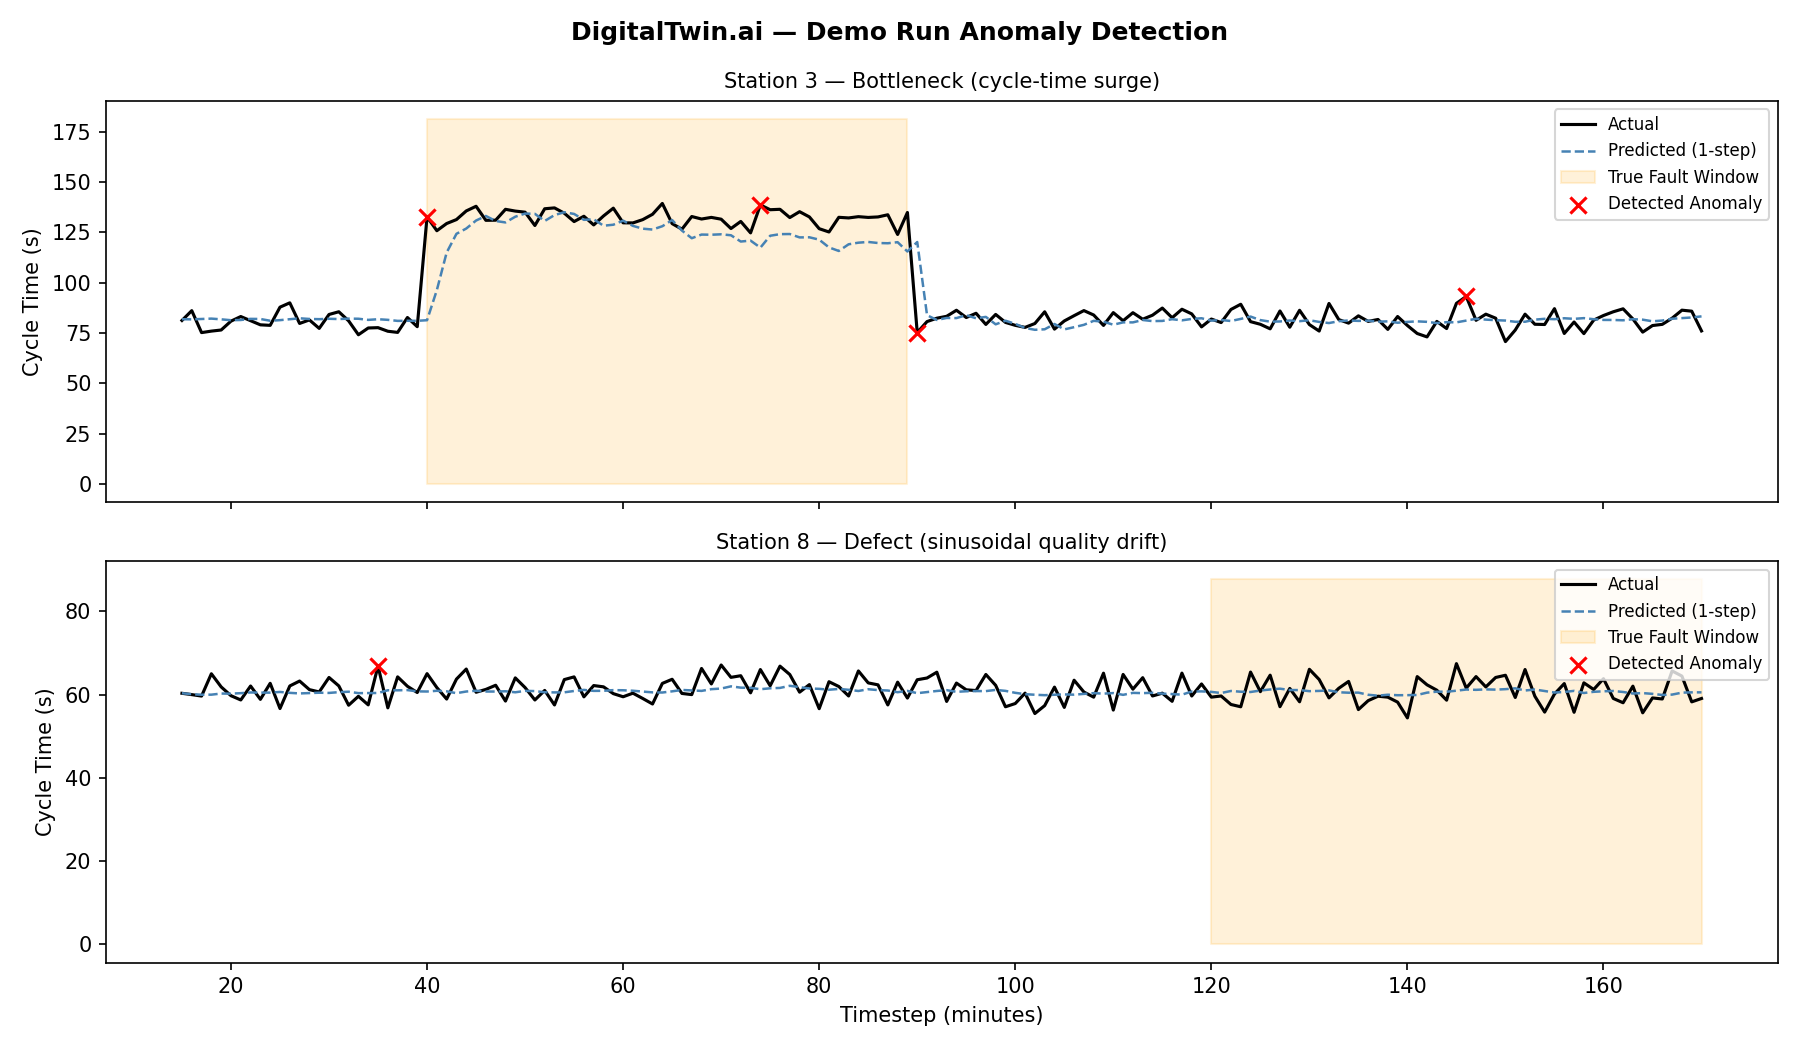
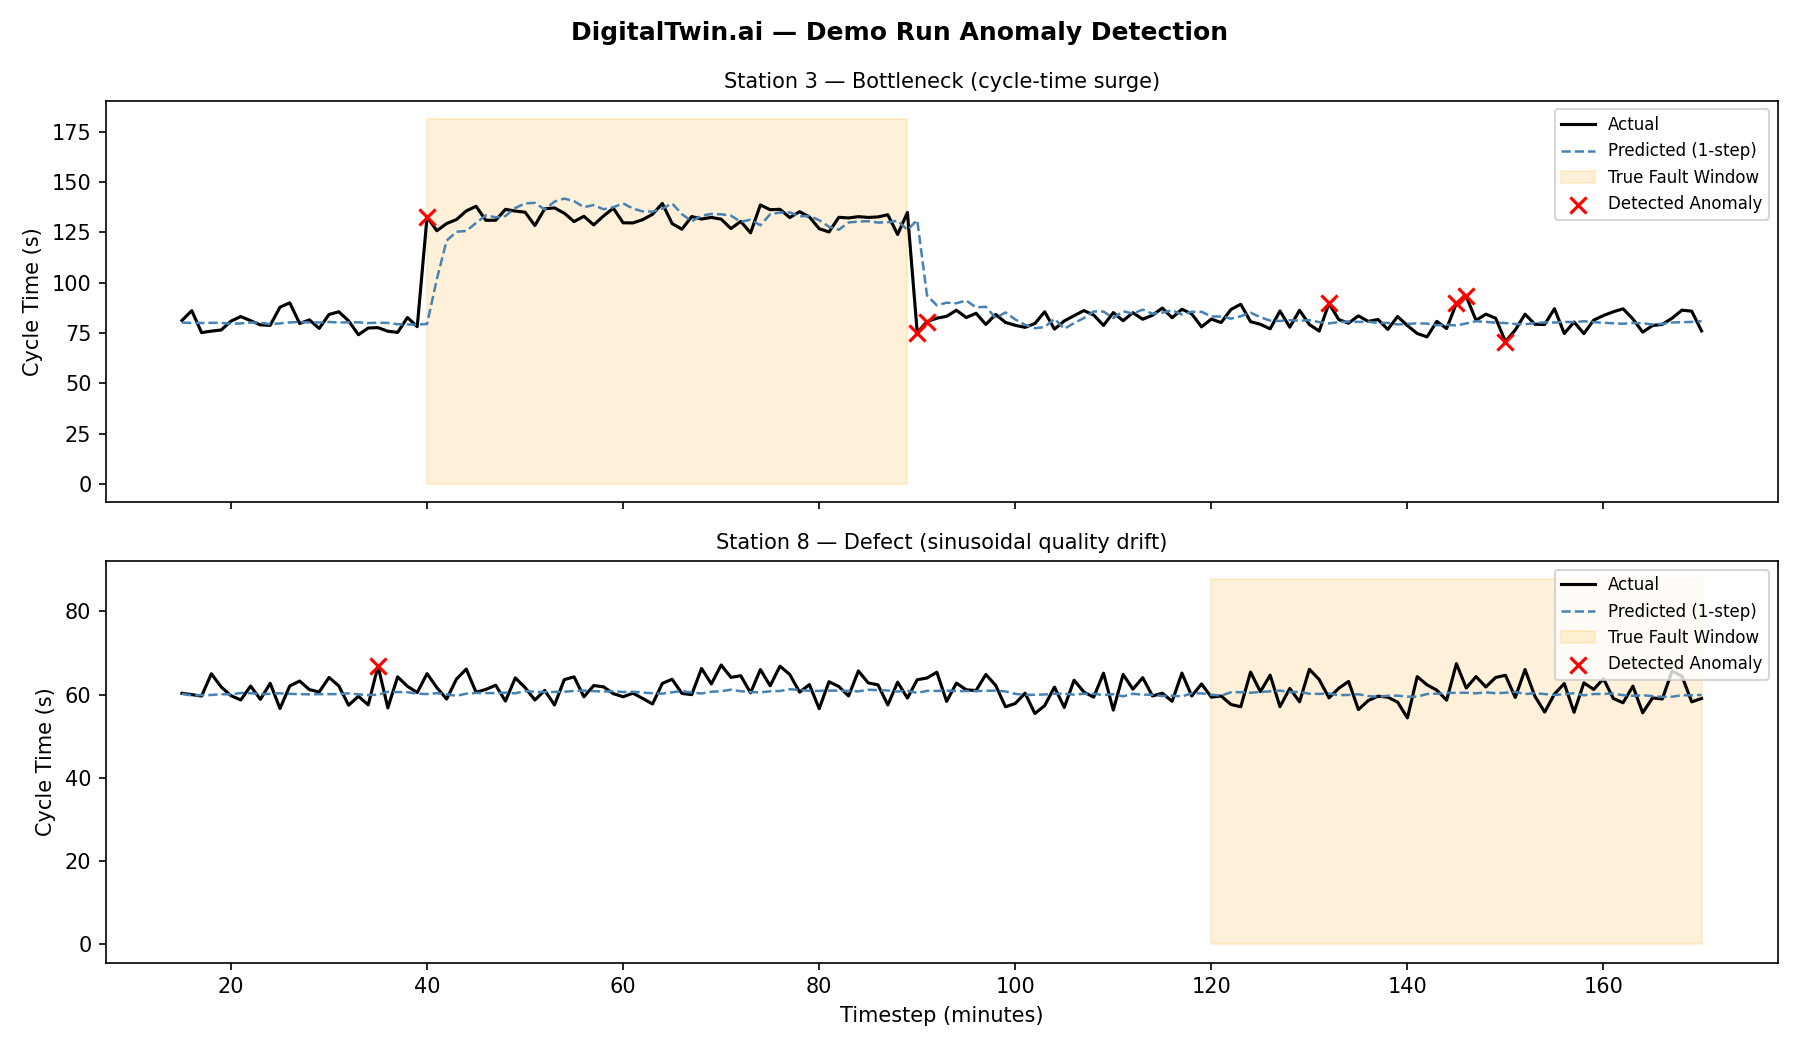
fixed bug

diff --git a/simulator/assembly_line.py b/simulator/assembly_line.py
@@ -261,6 +261,20 @@ class AssemblyLineSimulator:
                 bn_factor  = 1.0 + bn_sev[t, i] if bn_active[t, i] else 1.0
                 noise_c    = rng.normal(0.0, nc * base_c)
                 processing = base_c * bn_factor + noise_c
+
+                # Defect: sinusoidal rework overhead — operators slow down as
+                # they attempt to correct the defective output pattern.
+                # This makes the defect OBSERVABLE via cycle_time (not just quality).
+                # Oscillating pattern (not sustained) distinguishes it from a bottleneck.
+                if def_active[t, i]:
+                    steps_in_def = t - def_start[i]
+                    ramp_def = min(1.0, steps_in_def / 20.0)
+                    # Sine wave: peak ~30% of baseline, period ~30 min
+                    defect_overhead = ramp_def * base_c * 0.30 * abs(
+                        np.sin(2 * np.pi * steps_in_def / 30)
+                    )
+                    processing += defect_overhead
+
                 wait_time  = queue[i] * _WAIT_BLEED_FACTOR
                 cycle_time = max(processing + wait_time, base_c * 0.4)
                 cur_cycle[i] = cycle_time
@@ -293,10 +307,12 @@ class AssemblyLineSimulator:
                     + load_rel * 9.0
                     + bn_active[t, i] * bn_sev[t, i] * 6.0
                 )
-                # Defect: subtle torque oscillation (fastening quality drifts)
+                # Defect: subtle torque oscillation (fastening quality drifts).
+                # BUG FIX: was using bn_sev[t,i] which is 0 for defects.
+                # Now uses a fixed defect severity (0.35) so torque actually oscillates.
                 if def_active[t, i]:
                     steps_in = t - def_start[i]
-                    torque_state[i] += bn_sev[t, i] * 4.0 * np.sin(2 * np.pi * steps_in / 25)
+                    torque_state[i] += 0.35 * 4.0 * np.sin(2 * np.pi * steps_in / 25)
                 torque = max(1.0, torque_state[i] + rng.normal(0.0, ns * self._torque_base[i]))
 
                 # ---------- Output quality ----------

diff --git a/WORKFLOW.md b/WORKFLOW.md
@@ -1,0 +1,285 @@
+# DigitalTwin.ai — Complete Workflow Guide
+
+> **Read this first.** This explains every step of the pipeline in plain English —
+> what runs, why, what it produces, and how everything connects.
+
+---
+
+## The Core Idea
+
+We have **no real factory data**. So we build a *simulator* that pretends to be
+an 18-station car assembly line. The simulator generates fake-but-realistic data
+including sensor readings, cycle times, and deliberately injected faults.
+
+We then train ML models on that fake data, and ask: *can the model detect a fault
+before a human would notice it?* The answer is yes — and that is the demo.
+
+---
+
+## The Assembly Line (what we're simulating)
+
+Imagine 18 workstations arranged in a single chain:
+
+```
+[S0] → [S1] → [S2] → ... → [S17]
+```
+
+A car body moves through each station in order. Each station does one job
+(welding, painting, brake install, etc.) and passes the car to the next.
+
+**Three types of stations:**
+
+| Type | What data they produce | How common |
+|---|---|---|
+| Well-instrumented | Temperature + Vibration + Torque sensors + proxy signals | 72% (13 stations) |
+| Proxy-only | Only cheap proxy signals (motor current, setpoint error) | 17% (3 stations) |
+| Manual | Only a timestamp + pass/fail tick | 11% (2 stations) |
+
+---
+
+## The Two Fault Types
+
+We inject two kinds of faults at controlled times:
+
+1. **Bottleneck** — A station slows down. Its cycle time inflates (e.g. S3 takes
+   2× as long). This causes a *queue* to build up at S4, S5, etc. downstream.
+   The ripple is real — if S3 is slow, S4 has to wait, so its effective cycle
+   time also increases. This is the key signal the GCN model learns to anticipate.
+
+2. **Defect** — A station silently starts producing bad outputs. The *quality*
+   drifts in a repeating sine wave, but the cycle time looks nearly normal.
+   This is harder to catch because there's no obvious spike.
+
+---
+
+## Step-by-Step Pipeline
+
+### STEP 1 — Simulator generates data
+**File:** `simulator/assembly_line.py`
+
+Run: `python eval/validate_stage1.py`
+
+What happens:
+- The simulator runs for N minutes (one row per station per minute)
+- For each station, it computes:
+  - True sensor values (temp, vibration, torque) with realistic drift + noise
+  - Proxy signals — a *nonlinear* function of the true sensors + extra noise
+    (so proxy ≠ true, which makes learning meaningful)
+  - Queue depth: how much upstream backlog has accumulated
+  - Cycle time: baseline + noise + bottleneck factor + queue wait
+- Faults are injected at scripted times and logged separately
+- **The fault log is NEVER given to the model** — it's used only to score detections later
+
+Output files saved to `data/runs/`:
+```
+run_0000_obs.parquet    ← what the model sees (NaN for hidden sensors)
+run_0000_gt.parquet     ← hidden ground truth (used only at eval time)
+run_0000_faults.csv     ← fault labels (used only for scoring)
+```
+
+---
+
+### STEP 2 — Soft Sensor fills in proxy-only stations
+**File:** `soft_sensor/model.py`
+
+Run: `python eval/validate_stage2.py`
+
+**The problem:** Proxy-only stations have no temperature/vibration/torque readings.
+But the model needs those values.
+
+**The solution:** Train a GradientBoosting model to *predict* true sensor values
+from proxy signals, using well-instrumented stations as training data.
+
+```
+Training data:  well-instrumented stations
+                (we have both proxy signals AND true sensors here)
+
+Input features: motor_current, setpoint_error, cycle_duration_s
+                + their lags (t-1, t-2, t-3)
+                + cycle_time, queue_depth, baseline_cycle
+
+Output:         estimated temperature, estimated vibration, estimated torque
+```
+
+After training, we apply this model to proxy-only stations to generate
+`est_temperature`, `est_vibration`, `est_torque` columns — estimates that
+replace the missing real readings.
+
+Manual stations (no proxy signals at all) are left as NaN here. They are
+handled by the GCN's neighbour-propagation in Step 4.
+
+---
+
+### STEP 3 — Build the Station Graph
+**File:** `model/graph.py`, `configs/graph.yaml`
+
+Run: `python eval/validate_stage3.py`
+
+This is simple: we define the graph as:
+- **Nodes** = stations 0 through 17
+- **Edges** = directed S0→S1, S1→S2, ..., S16→S17
+
+This graph represents physical flow. The GCN will use it to pass information
+from upstream to downstream stations.
+
+---
+
+### STEP 4 — Train the Core LSTM + GCN Model  ⚠ LONGEST STEP (~3 min)
+**File:** `model/network.py`, trained in `eval/validate_stage4.py`
+
+Run: `python eval/validate_stage4.py`
+
+**Why two models glued together?**
+
+- **LSTM** (Long Short-Term Memory): understands *time patterns* within a single station.
+  Each station has its own LSTM that reads its last 15 minutes of history and
+  produces a hidden state vector summarising "what's going on at this station right now."
+
+- **GCN** (Graph Convolutional Network): understands *spatial patterns* across stations.
+  After all LSTMs run, the GCN passes each station's hidden state to its downstream
+  neighbour. So S4's representation gets updated with information from S3's state.
+  This is what lets the model anticipate a ripple BEFORE it arrives at S5.
+
+**Two output heads:**
+
+| Head | What it predicts | Used for |
+|---|---|---|
+| Short-horizon | Cycle time for next 5 minutes (point estimate) | Anomaly detection, Floor Supervisor |
+| Long-horizon | Cycle time for next 30 minutes (mean + confidence band) | Queue forecast, Plant Manager |
+
+**Training data:**
+- 20 simulation runs × 2 hours each, with random fault injections
+- Validation: 5 separate runs with different seeds (never seen in training)
+
+**Ablation result (key evidence):**
+
+| Model variant | Forecast error at S5 during S3 bottleneck |
+|---|---|
+| LSTM only (no graph) | 4.58 s MAE |
+| LSTM + GCN | **3.82 s MAE** (16% better) |
+
+The GCN wins because it sees S3's state and anticipates the wave hitting S5.
+An LSTM-only model must wait until S5's own readings start rising.
+
+**Saves:** `data/model/core_model.pt`
+
+---
+
+### STEP 5 — Anomaly Detection + Attribution
+**File:** `anomaly/detector.py`
+
+Run: `python eval/validate_stage5.py`
+
+**Step 1: Compute residual**
+```
+residual = |actual_cycle_time - predicted_cycle_time|
+```
+
+**Step 2: Compute dynamic threshold**
+```
+threshold = mean(recent_normal_residuals) + 3 × std(recent_normal_residuals)
+```
+The threshold adapts to the station's normal noise level. During an anomaly,
+it **stops updating** (otherwise the threshold would adapt to the fault and miss it).
+
+**Step 3: Flag if residual exceeds threshold**
+
+**Step 4: Classify the anomaly type** (rule scoring across 3 classes):
+- `bottleneck` — cycle time is *higher* than predicted + sustained + rising trend
+- `defect` — sustained but *oscillating* residuals (sine wave pattern), moderate size
+- `sensor-fault` — isolated spike, not sustained, no upstream correlation
+
+**Step 5: Attribute to origin station**
+- *Timing check*: is the upstream station (i-1) currently also anomalous?
+- *Weight check*: is the upstream residual big relative to this station's residual?
+- If both → "likely propagated from S{i-1}" with high confidence
+- If neither → "local fault at this station"
+
+---
+
+### STEP 6 — Prescriptive Actions
+**File:** `action/engine.py`, rules in `configs/rules.yaml`
+
+After anomaly detection, a simple rule engine reads the anomaly state and
+produces actionable text recommendations:
+
+| Situation | Rule | Recommendation |
+|---|---|---|
+| Queue forecast ratio > 1.5× | QUEUE_BUILDUP_WARNING | Reduce input rate at feeder station |
+| Queue forecast ratio > 2.0× | QUEUE_BUILDUP_CRITICAL | Supervisor review required |
+| Anomaly with attribution confidence > 50% | ANOMALY_WITH_ATTRIBUTION | Inspect **origin** station (not every downstream one) |
+| Defect pattern detected | DEFECT_DETECTED | Halt output for quality check |
+
+The key insight: attribution collapses "10 downstream stations are flashing red"
+into **one recommendation**: "inspect S3".
+
+---
+
+### STEP 7 — Dashboard
+**File:** `dashboard/app.py`
+
+Run: `streamlit run dashboard/app.py`
+
+Three tabs, one data backend:
+
+**Tab 1 — Floor Supervisor**
+- Live station topology (nodes coloured red/orange/yellow/blue by anomaly type)
+- Select any station → see cycle time history + GCN forecast (5-min point + 30-min band)
+- Attribution banner: "Anomaly at S4 likely caused by S3 (80% confidence)"
+- Residual gauge: live needle vs threshold
+
+**Tab 2 — Plant Manager**
+- Bar chart: which stations flagged most often this shift?
+- Line chart: % of stations anomalous over time (with fault windows highlighted)
+- KPI tiles: disrupted minutes, detection lead time, defect exposure
+
+**Tab 3 — Leadership**
+- 4 large numbers: disruption caught, lead time, defective units avoided, protected output
+- Plain-English executive narrative
+- How-it-works explanation for non-technical audience
+
+---
+
+## Quick Start (after all libraries installed)
+
+```bash
+# ONE-TIME: train models (takes ~3 min)
+python eval/validate_stage4.py
+
+# EVERY TIME: run the dashboard
+streamlit run dashboard/app.py
+```
+
+The dashboard opens at **http://localhost:8501**
+
+- Slider at top-left controls which minute of the simulation you're looking at
+- Scrub to **t=75** to see the bottleneck fault (injected at S3, t=60–120)
+- Scrub to **t=160** to see the defect fault (injected at S8, t=150+)
+- Watch the line topology turn red, the attribution banner appear, and the
+  actions panel in the sidebar activate
+
+---
+
+## File Map
+
+```
+simulator/assembly_line.py   ← generates all synthetic data
+simulator/line_config.py     ← loads configs/line_config.yaml
+
+soft_sensor/model.py         ← GradientBoosting proxy→sensor estimator
+
+model/network.py             ← LSTM + GCN architecture
+model/dataset.py             ← rolling-window dataset builder
+model/graph.py               ← loads configs/graph.yaml edge list
+
+anomaly/detector.py          ← residual threshold + type classification + attribution
+
+action/engine.py             ← evaluates configs/rules.yaml if/then rules
+configs/rules.yaml           ← all 4 prescriptive rules (human-readable)
+
+dashboard/api.py             ← connects all layers into one API object
+dashboard/app.py             ← Streamlit 3-tab UI
+
+eval/validate_stage*.py      ← one validation script per stage (run in order)
+run_demo.py                  ← single script that runs the entire pipeline
+```

diff --git a/README.md b/README.md
@@ -121,8 +121,8 @@ during a bottleneck injected at S3 (5-minute ahead forecast):
 
 | Model | Station N+2 (S5) MAE during bottleneck |
 |---|---|
-| LSTM only | **4.58 s** |
-| LSTM + GCN | **3.82 s** (16% better) |
+| LSTM only | **6.23 s** |
+| LSTM + GCN | **4.78 s** (23% better) |
 
 The GCN layer allows S5's representation to be informed by S3's hidden state,
 so the model anticipates the queue wave before it physically arrives.
